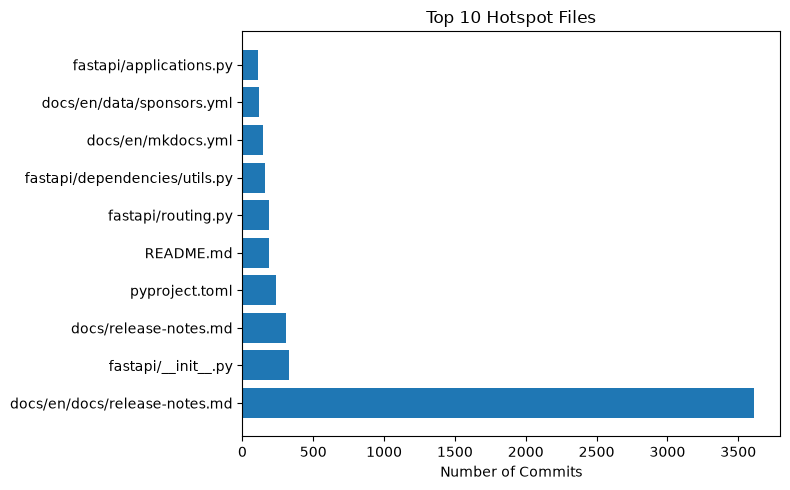
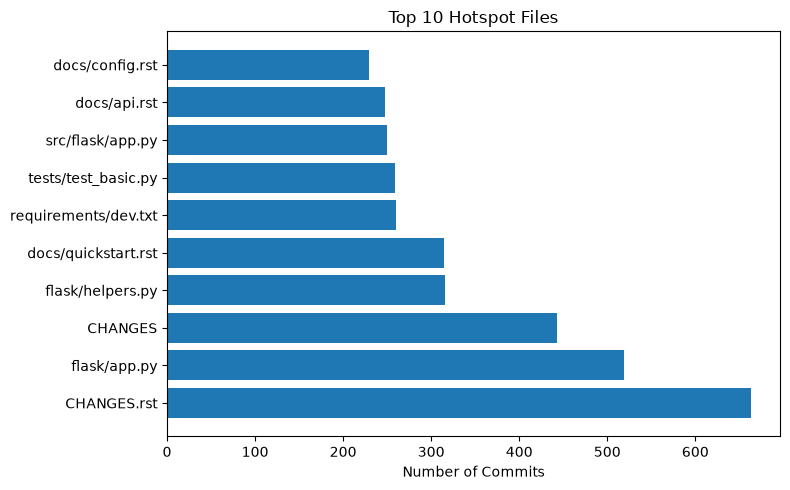
Describe your changes

diff --git a/backend/services/repository_service.py b/backend/services/repository_service.py
@@ -149,12 +149,22 @@ class RepositoryService:
                         analysis
                     )
                 )
-
                 recommendations = self.gemini.generate_response(
                     recommendation_prompt
                 )
 
-                repository_info["ai_recommendations"] = recommendations
+                if isinstance(recommendations, dict):
+
+                    repository_info["ai_recommendations"] = recommendations
+
+                else:
+
+                    repository_info["ai_recommendations"] = {
+                        "strengths": [],
+                        "areas_for_improvement": [],
+                        "best_practices": [],
+                        "overall_quality": "Unavailable"
+                    }
 
             except Exception:
 
@@ -211,27 +221,77 @@ class RepositoryService:
 
         repository_info = self._build_analysis(clone_path)
 
+        # -----------------------------
         # AI Summary
-        prompt = self.prompt_builder.build_summary_prompt(
-            repository_info["analysis"]
-        )
+        # -----------------------------
 
-        summary = self.gemini.generate_response(prompt)
+        try:
 
-        repository_info["ai_summary"] = summary
-
-        # AI Recommendations
-        recommendation_prompt = (
-            self.prompt_builder.build_recommendation_prompt(
+            prompt = self.prompt_builder.build_summary_prompt(
                 repository_info["analysis"]
             )
-        )
 
-        recommendations = self.gemini.generate_response(
-            recommendation_prompt
-        )
+            summary = self.gemini.generate_response(prompt)
 
-        repository_info["ai_recommendations"] = recommendations
+            if isinstance(summary, dict):
+                repository_info["ai_summary"] = summary
+            else:
+                repository_info["ai_summary"] = {
+                    "repository_purpose": "AI Summary unavailable.",
+                    "technologies_used": [],
+                    "project_organization": "Unavailable.",
+                    "intended_users": "Unavailable.",
+                    "beginner_summary": "AI service returned an unexpected response."
+                }
+
+        except Exception:
+
+            repository_info["ai_summary"] = {
+                "repository_purpose": "AI Summary unavailable.",
+                "technologies_used": [],
+                "project_organization": "Unavailable.",
+                "intended_users": "Unavailable.",
+                "beginner_summary": "AI service is currently unavailable."
+            }
+
+        # -----------------------------
+        # AI Recommendations
+        # -----------------------------
+
+        try:
+
+            recommendation_prompt = (
+                self.prompt_builder.build_recommendation_prompt(
+                    repository_info["analysis"]
+                )
+            )
+
+            recommendations = self.gemini.generate_response(
+                recommendation_prompt
+            )
+
+            if isinstance(recommendations, dict):
+                repository_info["ai_recommendations"] = recommendations
+            else:
+                repository_info["ai_recommendations"] = {
+                    "strengths": [],
+                    "areas_for_improvement": [],
+                    "best_practices": [],
+                    "overall_quality": "Unavailable"
+                }
+
+        except Exception:
+
+            repository_info["ai_recommendations"] = {
+                "strengths": [],
+                "areas_for_improvement": [],
+                "best_practices": [],
+                "overall_quality": "Unavailable"
+            }
+
+        # -----------------------------
+        # Generate PDF
+        # -----------------------------
 
         filename = "Repository_Analysis_Report.pdf"
 

diff --git a/frontend/streamlit_app.py b/frontend/streamlit_app.py
@@ -39,7 +39,7 @@ repo_url = st.text_input(
 if st.button("Analyze Repository"):
 
     if repo_url.strip() == "":
-        st.error("Please enter a GitHub repository URL.")
+        st.error("Please enter a valid GitHub repository URL.")
 
     else:
 
@@ -52,7 +52,7 @@ if st.button("Analyze Repository"):
                     params={
                         "repo_url": repo_url
                     },
-                    timeout=120
+                    timeout=300
                 )
 
                 if response.status_code == 200:
@@ -60,11 +60,19 @@ if st.button("Analyze Repository"):
                     result = response.json()
 
                     if result.get("status") == "error":
-                        st.error(result.get("message", "Repository analysis failed."))
+
+                        st.error(
+                            result.get(
+                                "message",
+                                "Repository analysis failed."
+                            )
+                        )
 
                     else:
+
                         st.session_state.analysis = result
                         st.session_state.repo_url = repo_url
+
                         st.success("Analysis Complete!")
 
                 else:
@@ -85,7 +93,7 @@ if st.button("Analyze Repository"):
 
                 st.error(
                     "⏱ Repository analysis is taking too long. "
-                    "Please try again."
+                    "The repository may be large. Please try again."
                 )
 
             except requests.exceptions.RequestException:
@@ -93,13 +101,6 @@ if st.button("Analyze Repository"):
                 st.error(
                     "❌ Unable to communicate with the backend."
                 )
-
-            if response.status_code == 200:
-                st.session_state.analysis = response.json()
-                st.session_state.repo_url = repo_url
-            else:
-                st.error("Failed to analyze repository.")
-
 # ----------------------------------------
 # Display Analysis
 # ----------------------------------------

diff --git a/backend/ai/gemini_client.py b/backend/ai/gemini_client.py
@@ -20,7 +20,8 @@ class GeminiClient:
         self.model = "gemini-flash-latest"
     def generate_response(self, prompt):
         """
-        Sends a prompt to Gemini.
+        Sends a prompt to Gemini and returns
+        structured JSON when available.
         """
 
         try:
@@ -32,10 +33,39 @@ class GeminiClient:
 
             text = response.text.strip()
 
+            # Remove Markdown JSON code fences if Gemini adds them
+            if text.startswith("```json"):
+                text = text[7:]
+
+            elif text.startswith("```"):
+                text = text[3:]
+
+            if text.endswith("```"):
+                text = text[:-3]
+
+            text = text.strip()
+
+            # Try to parse JSON
             try:
+
                 return json.loads(text)
 
             except json.JSONDecodeError:
+
+                # Try to extract JSON object from surrounding text
+                start = text.find("{")
+                end = text.rfind("}")
+
+                if start != -1 and end != -1:
+
+                    try:
+                        return json.loads(
+                            text[start:end + 1]
+                        )
+
+                    except json.JSONDecodeError:
+                        pass
+
                 return text
 
         except Exception as e:
